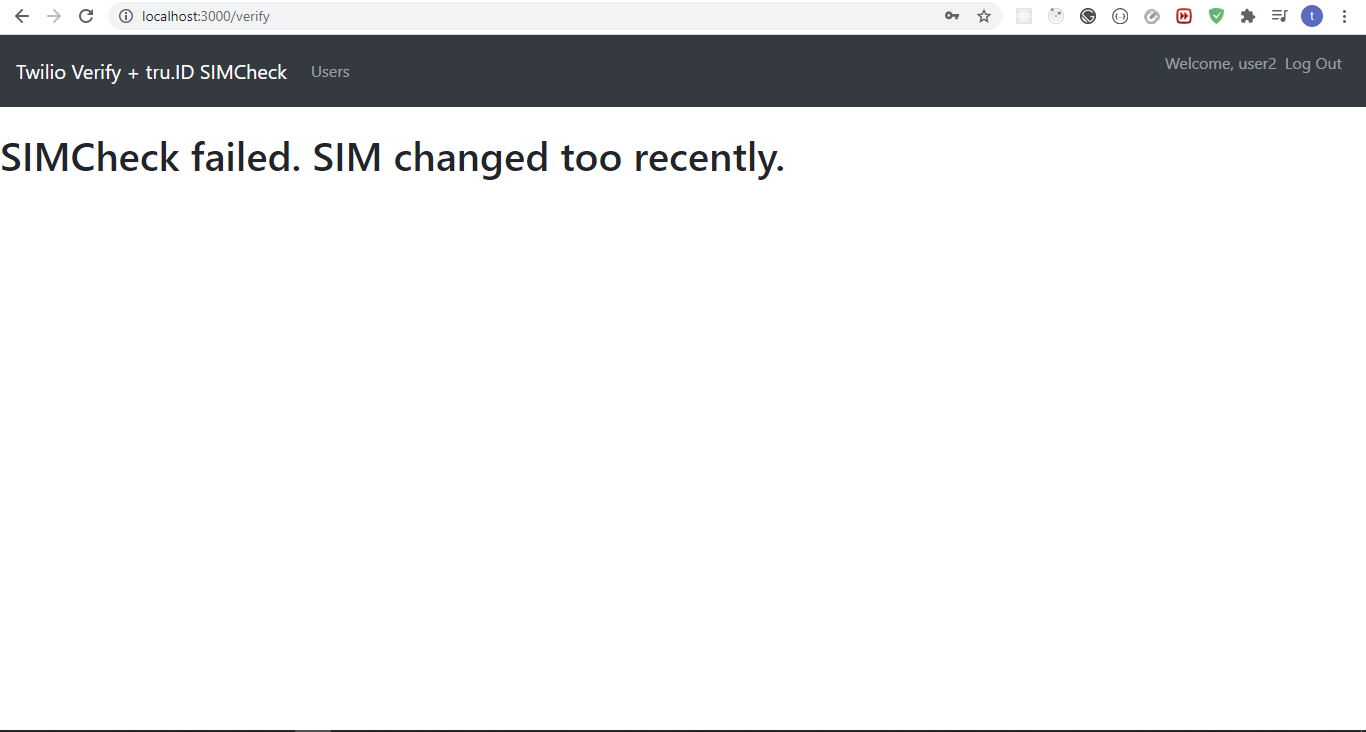
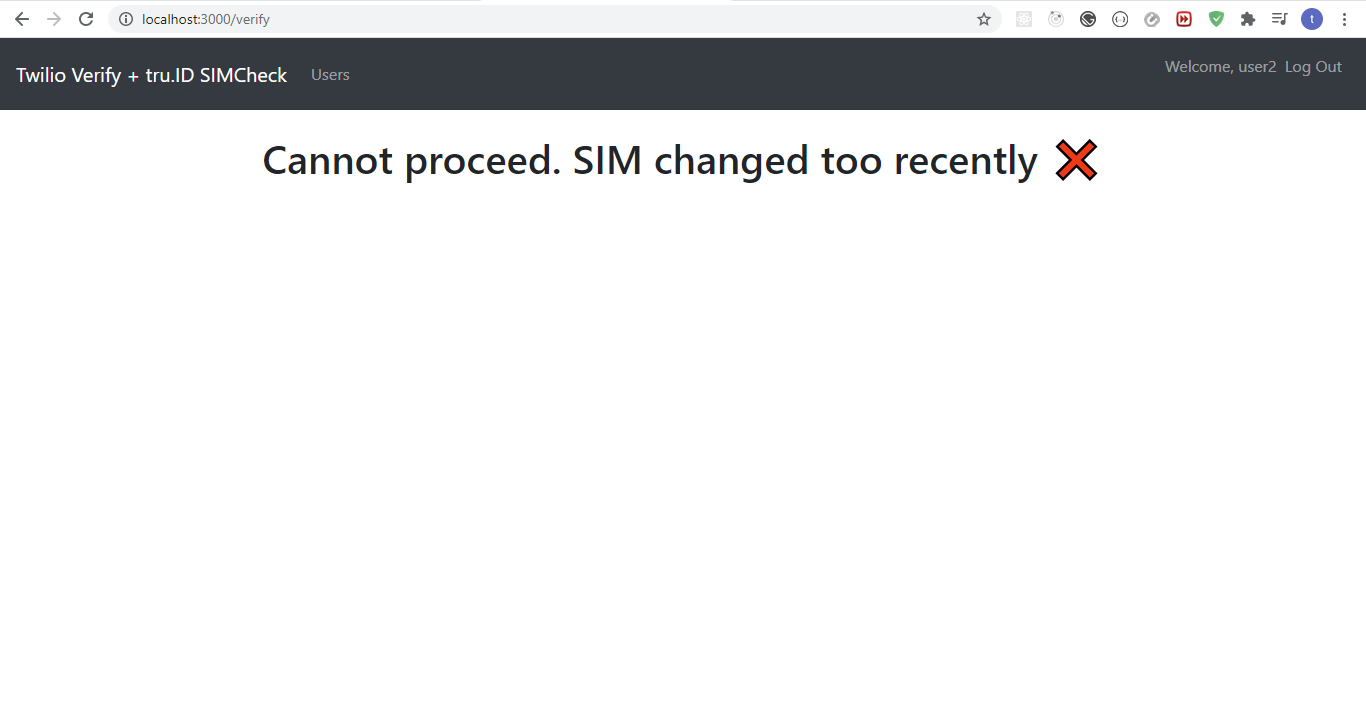
feat: implemented  suggested changes

Changed region(s): [[0.0, 0.0, 1.0, 0.2688], [0.0, 0.9858, 1.0, 1.0]]

diff --git a/routes/verify.js b/routes/verify.js
@@ -22,7 +22,7 @@ router.get("/", ensureLoggedIn(), async (req, res) => {
       console.log(no_sim_change);
       // If the SIM has changed we inform the client
       if (!no_sim_change) {
-        return res.render("sim-changed", { error: "SIMCheck failed. SIM changed too recently." });
+        return res.render("sim-changed", { error: "Cannot proceed. SIM changed too recently ❌" });
       }
       verificationRequest = await twilio.verify
         .services(VERIFICATION_SID)

diff --git a/client/styles/main.scss b/client/styles/main.scss
@@ -1,11 +1,14 @@
-@import '~bootstrap/scss/bootstrap.scss';
-@import '~intl-tel-input/build/css/intlTelInput.css';
-
+@import "~bootstrap/scss/bootstrap.scss";
+@import "~intl-tel-input/build/css/intlTelInput.css";
 
 .form-group > div > .intl-tel-input {
   width: 100%;
 }
 
-.was-validated, .invalid-feedback {
+.was-validated,
+.invalid-feedback {
   display: block;
+}
+.text-center {
+  text-align: center;
 }

diff --git a/tutorial.md b/tutorial.md
@@ -1,14 +1,12 @@
-# Adding SIM Swap Detection to your Web App's 2FA Login Flow with Twilio Verify & tru-ID SIMCheck API
+# Adding SIM Swap Detection to your Web App's 2FA Login Flow with Twilio Verify & tru.ID SIMCheck API
 
-In today's tutorial you're going to learn how to add SIM Swap Detection to your existing Web App's Two-Factor authentication login flow with **tru-ID's** [SIMCheck API](https://developer.tru.id/docs/sim-check/guide).
+In today's tutorial you're going to learn how to add SIM Swap Detection to your existing Web App's Two-Factor authentication login flow with **tru.ID's** [SIMCheck API](https://developer.tru.id/docs/sim-check/guide).
 
 We're going to be using Twilio's [verify-v2-quick-start-node](https://github.com/TwilioDevEd/verify-v2-quickstart-node) as the existing 2FA base.
 
-Before we begin let's talk about why you would want to secure your applications with the **tru-ID** SIMCheck API.
+Before we begin let's talk about why you would want to secure your applications with the **tru.ID** SIMCheck API.
 
-## The tru-ID SIMCheck API
-
-The **tru-ID** SIMCheck API provides information on when a SIM card associated with a mobile phone number was last changed. This provides an extra layer of security in your application login flows as it guards against the possibility the user's SIM was swapped (hence why the SIM changed recently). It can be used to augment existing 2FA or anti-fraud workflows.
+The **tru.ID** SIMCheck API provides information on when a SIM card associated with a mobile phone number was last changed. This provides an extra layer of security in your application login flows as it guards against the possibility the user's SIM was swapped (hence why the SIM changed recently). It can be used to augment existing 2FA or anti-fraud workflows.
 
 ## Before you begin
 
@@ -29,13 +27,9 @@ Clone the `starter-files` branch via:
 git clone -b starter-files --single-branch https://github.com/tru-ID/sms-2fa-sim-swap-detection.git
 ```
 
-If you're only interested in the finished code in `main` then run:
+If you're only interested in the finished code in `main` then head over to the GitHub [repo](https://github.com/tru-ID/sms-2fa-sim-swap-detection)
 
-```
-git clone -b main https://github.com/tru-ID/sms-2fa-sim-swap-detection.git
-```
-
-## Getting setup with Twilio
+### Getting setup with Twilio
 
 You need to configure Twilio using your account credentials.
 
@@ -51,20 +45,20 @@ Open the `.env` file and configure the following values:
 - `TWILIO_AUTH_TOKEN`: Your Twilio Auth Token that can be found [here](https://www.twilio.com/console/)
 - `VERIFICATION_SID`: This project uses Twilio Verify to send verification codes and to check their status - [create a service here](https://www.twilio.com/console/verify/services)
 
-## Getting setup with tru-ID
+### Getting setup with tru-ID
 
-Create a [tru-ID Account](https://tru.id)
+Create a [tru.ID Account](https://tru.id)
 
-Install the **tru-ID** CLI via:
+Install the **tru.ID** CLI via:
 
 ```bash
 npm i -g @tru_id/cli
 
 ```
 
-Input your **tru-ID** credentials which can be found within the **tru-ID** [console](https://developer.tru.id/console)
+Input your **tru.ID** credentials which can be found within the **tru.ID** [console](https://developer.tru.id/console)
 
-Create a new **tru-ID** project via:
+Create a new **tru.ID** project via:
 
 ```
 tru projects:create sms-2fa
@@ -72,8 +66,8 @@ tru projects:create sms-2fa
 
 configure the following values in your `.env`:
 
-- `TRU_ID_CLIENT`: The client ID found in the `tru.json` file in the newly created **tru-ID** project.
-- `TRU_ID_SECRET`: The client secret found in the `tru.json` file in the newly created **tru-ID** project.
+- `TRU_ID_CLIENT`: The client ID found in the `tru.json` file in the newly created **tru.ID** project.
+- `TRU_ID_SECRET`: The client secret found in the `tru.json` file in the newly created **tru.ID** project.
 
 ## Starting the project
 
@@ -87,20 +81,10 @@ npm install
 
 This will also run Database migrations creating the `users` table.
 
-If you would like to seed the project with a user:
-
-Navigate to `seeders/createUser.js` and replace the `phoneNumber` value with your own `phoneNumber`
-
-Next seed the database by running:
-
-```
-npm run seed
-```
-
 Finally, to start the project run:
 
 ```bash
-npm run linuxstart #for running on Linux machines e.g. Mac
+npm run nixstart #for running on Linux machines e.g. Mac
 # or
 npm run winstart #for running on Windows machines
 ```
@@ -108,6 +92,10 @@ npm run winstart #for running on Windows machines
 The project should look like this on startup:
 
 ![alt text](./images/startup.PNG "Starter App")
+
+The register page should look like this:
+
+![alt text](./images/register.PNG "Register Screen")
 
 ## Existing App Workflow
 
@@ -134,7 +122,7 @@ The workflow now looks like this:
 
 In order to perform the SIMCheck we need to do two things:
 
-- Create a **tru-ID** access token.
+- Create a **tru.ID** access token.
 - Create a SIMCheck using the newly generated access token.
 
 In order to do any of the two listed above we need to bring in a few packages. Open a new terminal and run:
@@ -145,7 +133,7 @@ npm install --save btoa node-fetch
 
 `btoa` transforms data to base-64 encoded format and `node-fetch` allows us make HTTP network requests in our Node applications.
 
-## Creating the Access Token
+### Creating the Access Token
 
 In order to create the access token create a new folder called `helpers` , create a file named `createAccessToken.js` and paste in the following code:
 
@@ -182,7 +170,7 @@ Lastly in the body we set `grant_type` to `client_credentials` and `scope` to `s
 
 The `scope` instructs the tru.ID OAuth provider that the created Access Token should have permissions to use SIMCheck resources as indicated by `sim_check`.
 
-## Creating the SIMCheck
+### Creating the SIMCheck
 
 In the `helpers` folder create a file named `performSimCheck.js` and paste the following code:
 
@@ -208,33 +196,36 @@ Here we make accept a phone number in E.164 format, the access token from the pr
 
 A sample successful response is:
 
-![alt text](./images/sim-success.PNG "Successful SIMCheck")
+```
+{
+  _links: {
+    self: {
+      href: 'https://eu.api.tru.id/sim_check/v0.1/c6-bbae-50358ae3bb08'
+    }
+  },
+  check_id: '2563f2a6-0b9e-49c6-bbae-50358ae3bb08',
+  status: 'COMPLETED',
+  no_sim_change: true,
+  charge_amount: 1,
+  charge_currency: 'API',
+  created_at: '2021-03-17T14:49:29+0000',
+  snapshot_balance: 13
+}
+```
 
 A sample failure response is:
 
-![alt text](./images/sim-failed.PNG "Unsuccessful SIMCheck")
-
-## Creating the SIMCheck UI
-
-Next, we need to create the UI we'll show if the SIMCheck failed or the SIM changed. Ideally, if any of those two conditions were met you'd be better off sending an email to the user to confirm their identity but for simplicity sake we'll render a UI.
-
-Head over to `views` and create a file named `sim-changed.pug` and paste the following code:
-
 ```
-extends layout
-
-block content
-  h1 #{error}
-
+{
+type: 'https://tru.id/docs/api-errors#mno_not_supported',
+  title: 'Bad Request',
+  status: 400,
+  detail: '400 Bad Request Mobile Network Operator
+Not Supported'
+}
 ```
 
-`#{error}` is dynamic meaning we pass it in when we render this view.
-
-The UI looks like this:
-
-![alt text](./images/sim-changed.PNG "SIMCheck error view")
-
-## Integrating our changes
+## Integrating our helper functions
 
 Finally, we need to integrate our changes to augment the workflow. Head over to `routes/verify.js` and in the `try` of `router.get('/', ensureLoggedIn(),async (req,res)=> {})` paste the following code:
 
@@ -254,7 +245,7 @@ router.get("/", ensureLoggedIn(), async (req, res) => {
       console.log(no_sim_change);
       // If the SIM has changed we inform the client
       if (!no_sim_change) {
-        return res.render("sim-changed", { error: "SIMCheck failed. SIM changed too recently." });
+
       }
       verificationRequest = await twilio.verify
         .services(VERIFICATION_SID)
@@ -287,7 +278,6 @@ router.get("/", ensureLoggedIn(), async (req, res) => {
       console.log(no_sim_change);
       // If the SIM has changed we inform the client
       if (!no_sim_change) {
-        return res.render("sim-changed", { error: "SIMCheck failed. SIM changed too recently." });
       }
       verificationRequest = await twilio.verify
         .services(VERIFICATION_SID)
@@ -306,15 +296,77 @@ router.get("/", ensureLoggedIn(), async (req, res) => {
 });
 ```
 
-Right before we generate the OTP we create the access token and perform the SIMCheck and if the SIM has changed or the request errors out we render the `sim-changed` view passing in our custom `error` message.
+Right before we generate the OTP we create the access token and perform the SIMCheck and if the SIM has changed or the request errors out we handle it within the `if(!no_sim_change)` block.
+
+## Handling SIMCheck Response
+
+Next, we need to create the UI we'll show if the SIMCheck can't be performed because we don't support the mobile carrier or if the SIMCheck response informs us that the SIM changed. Ideally, if any of those two conditions were met you'd be better off sending an email to the user to confirm their identity but for simplicity sake we'll render a UI.
+
+Head over to `views` and create a file named `sim-changed.pug` and paste the following code:
+
+```
+extends layout
+
+block content
+  .text-center
+  h1 #{error}
+
+
+```
+
+`#{error}` is dynamic meaning we pass it in when we render this view.
+
+The UI looks like this:
+
+![alt text](./images/sim-changed.PNG "SIMCheck error view")
+
+We then render it to the screen inside the `if` block:
+
+```javascript
+const { createAccessToken } = require("../helpers/createAccessToken");
+const { performSimCheck } = require("../helpers/performSimCheck");
+router.get("/", ensureLoggedIn(), async (req, res) => {
+  if (req.user.role !== "access secret content") {
+  ...
+
+    try {
+      //create tru.ID access token
+      ...
+
+      // perform SIMCheck
+  ...
+      // If the SIM has changed we inform the client
+      if (!no_sim_change) {
+        return res.render("sim-changed", { error: "Cannot proceed. SIM changed too recently ❌" });
+      }
+      verificationRequest = await twilio.verify
+        .services(VERIFICATION_SID)
+        .verifications.create({ to: req.user.phoneNumber, channel });
+    }
+    ...
+  }
+
+ ...
+});
+```
 
 ## Wrapping up
 
-That's it! That's how simple it is to add SIM Swap detection to your existing 2FA application with **tru-ID's** SIMCheck API.
+That's it! That's how simple it is to add SIM Swap detection to your existing 2FA application with **tru.ID's** SIMCheck API.
+
+If you would like to seed the project with a user instead of having to register:
+
+Navigate to `seeders/createUser.js` and replace the `phoneNumber` value with your own `phoneNumber`
+
+Next seed the database by running:
+
+```
+npm run seed
+```
 
 You can view the diff between the base repo (Twilio's) and the finished app [here](https://github.com/TwilioDevEd/verify-v2-quickstart-node/compare/next...tru-ID:main)
 
 ## Resources
 
-- [tru-ID SIMCheck Integration guide](https://developer.tru.id/docs/sim-check/guide)
+- [tru.ID SIMCheck Integration guide](https://developer.tru.id/docs/sim-check/guide)
 - [Twilio's verify-v2-quick-start-node](https://github.com/TwilioDevEd/verify-v2-quickstart-node)
